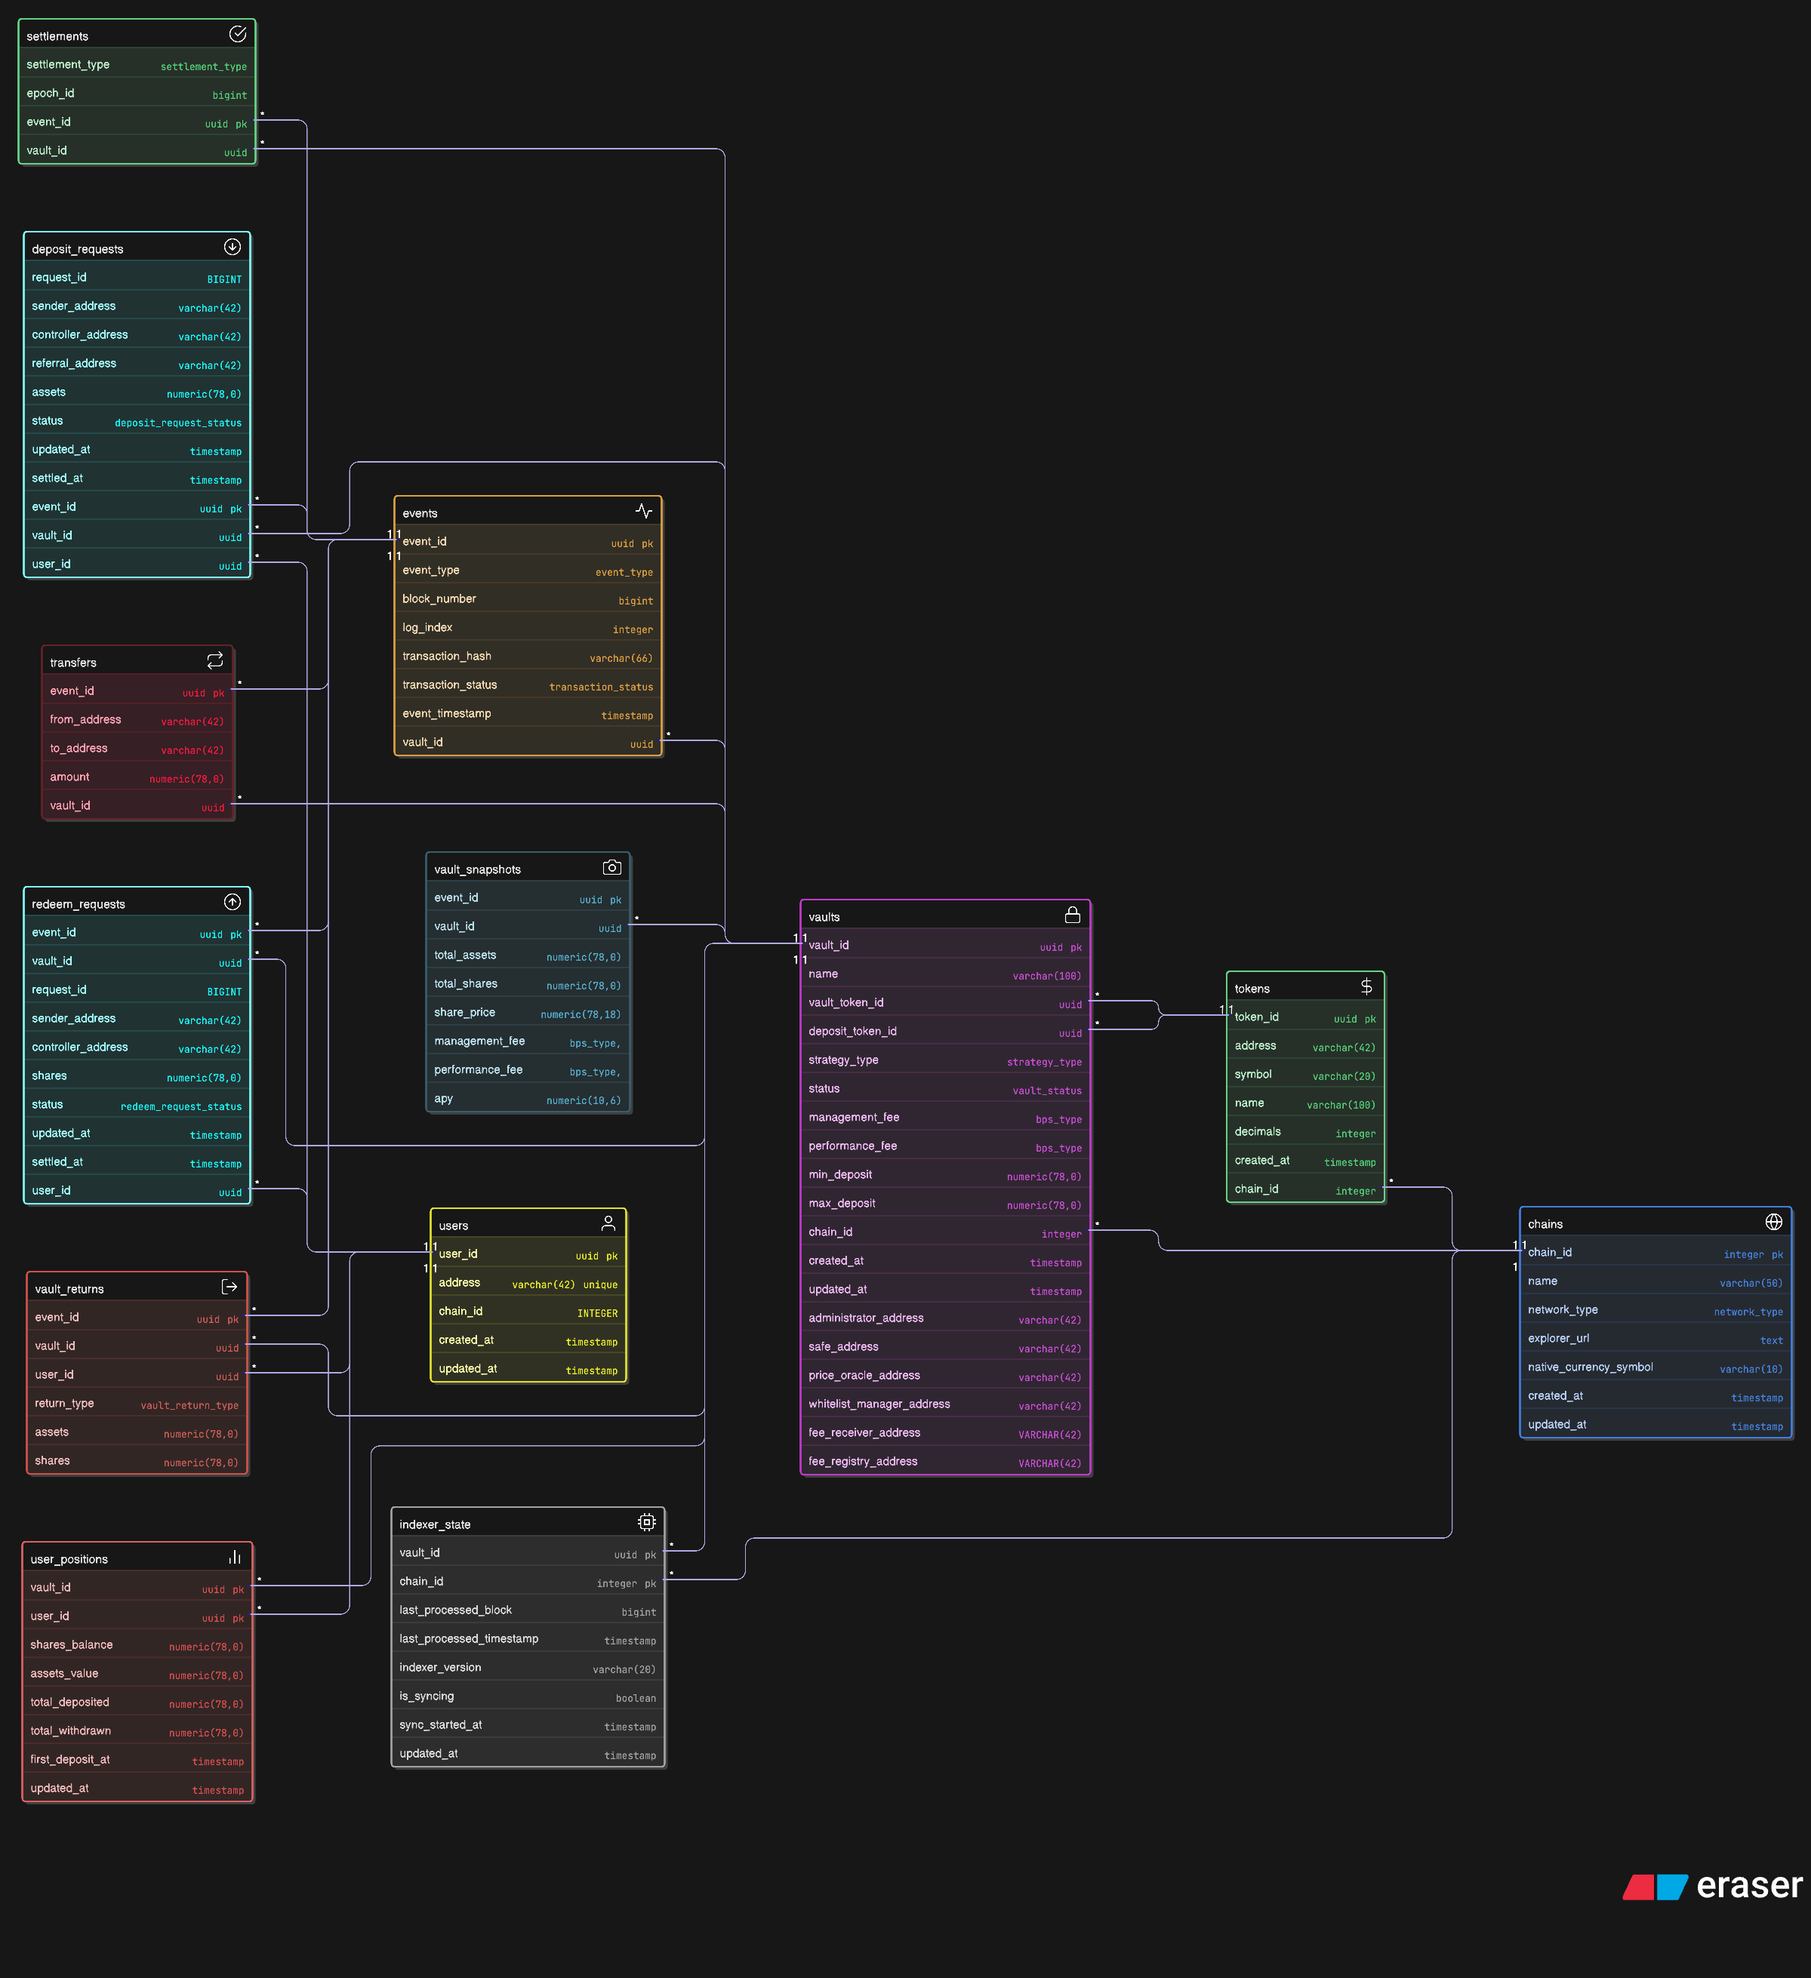
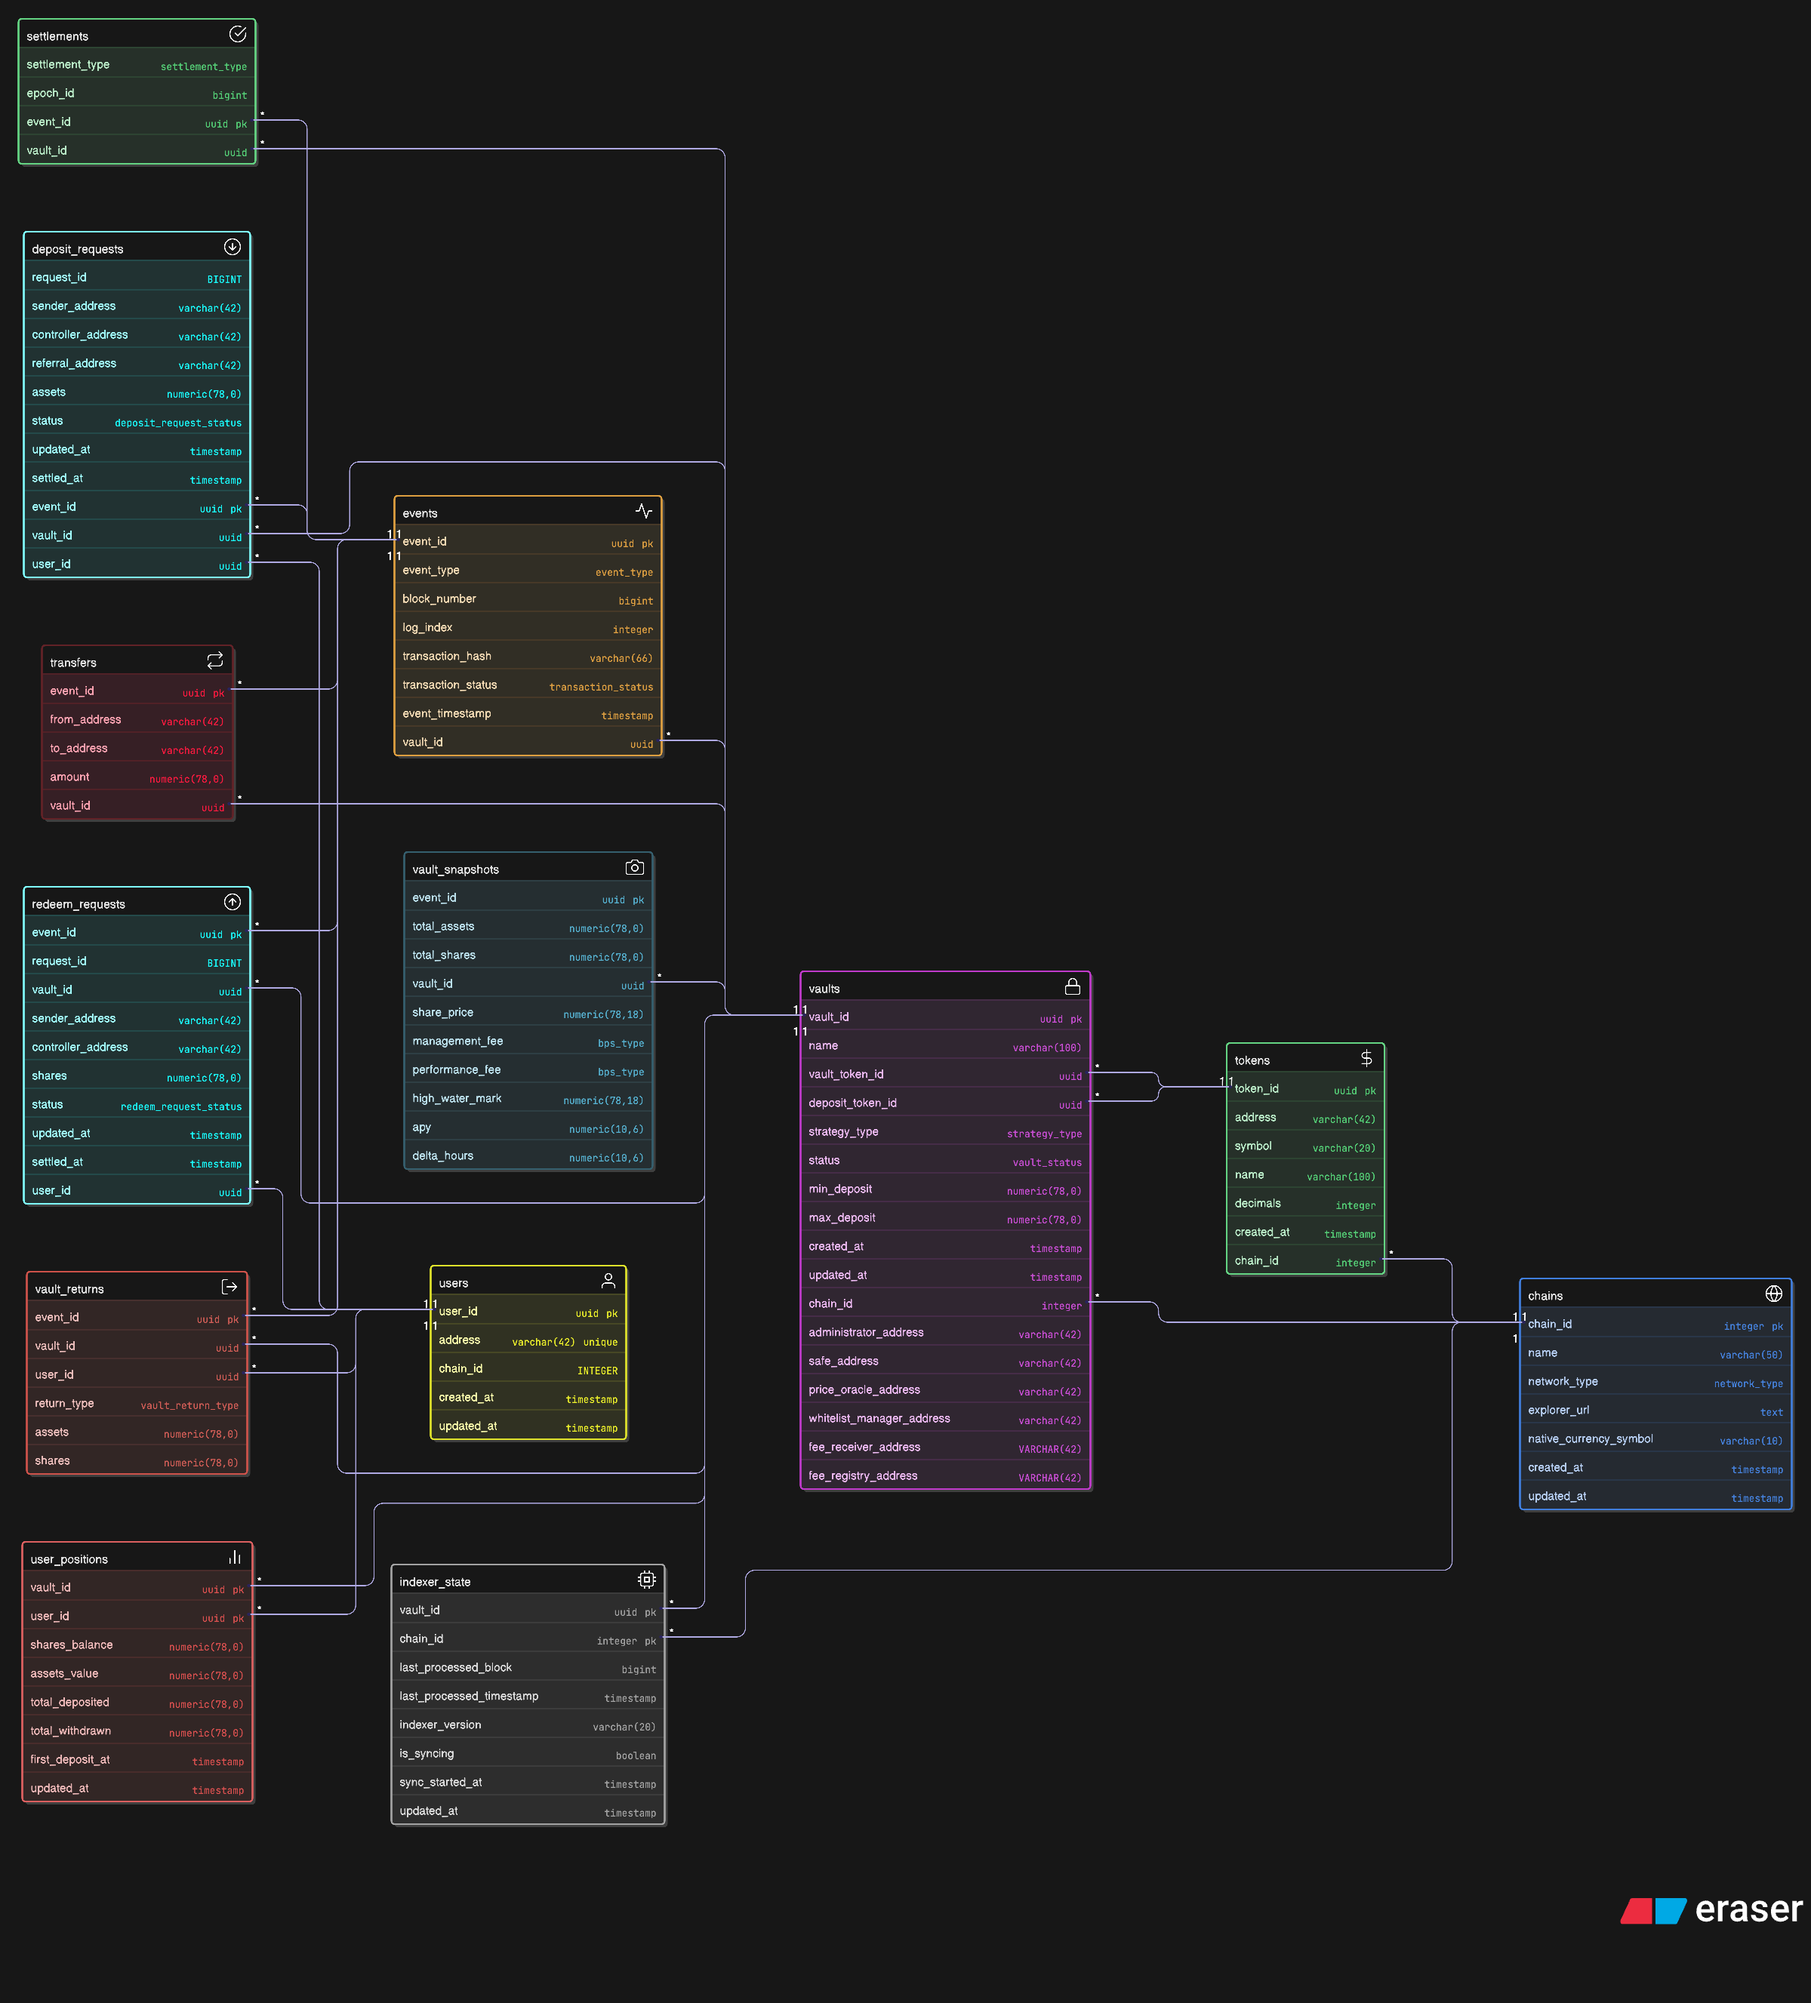
feat: extend vault snapshot schema and APY computation logic
- Updated DB schema
  - Added high_water_mark, apy, and delta_hours to vault_snapshots
  - Removed management_fee and performance_fee from vaults table

- Adjusted share price and APY computation
  - total_shares = lagoon_contract.functions.totalSupply().call()
  - share_price = total_assets / total_shares if total_shares > 0 else 0
  - delta_hours, apy = get_delta_hours_and_apy_12h_ago(...)

- Added missing events (handlers pending)
  - Referral: to update referral_address in deposit_requests
  - RatesUpdated: to update management_fee and performance_fee in vault_snapshots
  - HighWaterMarkUpdated: to update high_water_mark in vault_snapshots

diff --git a/lagoon-indexer/lagoon_indexer.py b/lagoon-indexer/lagoon_indexer.py
@@ -6,6 +6,7 @@ import traceback
 import pandas as pd
 from typing import List, Dict, Tuple
 from datetime import datetime
+from web3.contract import Contract
 import uuid
 sys.path.append(os.path.dirname(os.path.dirname(os.path.abspath(__file__))))
 from db.db import Database, getEnvDb
@@ -15,6 +16,8 @@ from db.query.lagoon_db_utils import LagoonDbUtils
 from db.query.lagoon_events import LagoonEvents
 from db.utils.lagoon_db_date_utils import LagoonDbDateUtils
 from eth_utils import event_abi_to_log_topic
+from utils.rpc import get_w3
+from constants.abi.lagoon import LAGOON_ABI
 
 # Event Formatter
 class EventFormatter:
@@ -99,17 +102,24 @@ class EventFormatter:
         return event_data, transfer_data
     
     @staticmethod
-    def format_NewTotalAssetsUpdated_data(event: Dict, vault_id: str) -> Tuple[Dict, Dict]:
+    def format_NewTotalAssetsUpdated_data(db: Database, lagoon_contract: Contract, event: Dict, vault_id: str) -> Tuple[Dict, Dict]:
         event_data = EventFormatter._common_fields(event, vault_id, 'total_assets_updated')
+        total_shares = lagoon_contract.functions.totalSupply().call()
+        total_assets = int(event['args']['totalAssets'])
+        share_price = total_assets / total_shares if total_shares > 0 else 0
+        delta_hours, apy = LagoonDbUtils.get_delta_hours_and_apy_12h_ago(db, vault_id, share_price)
+        
         new_total_assets_updated_data = {
             'event_id': event_data['event_id'],
             'vault_id': event_data['vault_id'],
-            'total_assets': int(event['args']['totalAssets']),
-            'total_shares': None, #int(event['args']['totalShares']),
-            'share_price': None, #int(event['args']['sharePrice']),
+            'total_assets': total_assets,
+            'total_shares': total_shares,
+            'share_price': share_price,
             'management_fee': None, #int(event['args']['managementFee']),
             'performance_fee': None, #int(event['args']['performanceFee']),
-            'apy': None #int(event['args']['apy'])
+            'high_water_mark': None, #int(event['args']['highWaterMark']),
+            'apy': apy,
+            'delta_hours': delta_hours
         }
         return event_data, new_total_assets_updated_data
 
@@ -128,18 +138,22 @@ class EventFormatter:
     
 # Event Processor
 class EventProcessor:
-    def __init__(self, db: Database, vault_id: str, chain_id: int):
+    def __init__(self, db: Database, lagoon: str, vault_id: str, chain_id: int):
         self.db = db
+        self.lagoon = lagoon
         self.vault_id = vault_id
         self.chain_id = chain_id
         self.EVENT_TABLES = {
             'DepositRequest': 'deposit_requests',
+            'Referral': 'deposit_requests',
             'RedeemRequest': 'redeem_requests',
             'SettleDeposit': 'settlements',
             'SettleRedeem': 'settlements',
             'DepositRequestCanceled': 'deposit_request_canceled',
             'Transfer': 'transfers',
             'NewTotalAssetsUpdated': 'vault_snapshots',
+            'RatesUpdated': 'vault_snapshots',
+            'HighWaterMarkUpdated': 'vault_snapshots',
             'Deposit': 'vault_returns',
             'Withdraw': 'vault_returns'
         }
@@ -242,8 +256,10 @@ class EventProcessor:
     def store_NewTotalAssetsUpdated_events(self, events: List[Dict]):
         event_data_list = []
         new_total_assets_updated_data_list = []
+        w3 = get_w3(self.chain_id)
+        lagoon_contract = w3.eth.contract(address=self.lagoon, abi=LAGOON_ABI)
         for event in events:
-            event_data, new_total_assets_updated_data = EventFormatter.format_NewTotalAssetsUpdated_data(event, self.vault_id)
+            event_data, new_total_assets_updated_data = EventFormatter.format_NewTotalAssetsUpdated_data(self.db, lagoon_contract, event, self.vault_id)
             event_data_list.append(event_data)
             new_total_assets_updated_data_list.append(new_total_assets_updated_data)
 
@@ -307,7 +323,7 @@ class LagoonIndexer:
             abi=lagoon_abi
         )
         self.db = getEnvDb('damm-public')
-        self.event_processor = EventProcessor(self.db, self.vault_id, self.chain_id)
+        self.event_processor = EventProcessor(self.db, self.lagoon, self.vault_id, self.chain_id)
 
     def get_block_ts(self, event: Dict) -> str:
         block_number = int(event['blockNumber'])
@@ -354,6 +370,12 @@ class LagoonIndexer:
                     new_events.append(event_copy)
                 events = new_events  # Replace the list with the new one
 
+                # TODO: Missing events: 
+                # Referral for updating deposit_requests referral field correspondingly
+                # For updating vault_snapshots, in addition to NewTotalAssetsUpdated, we need to track:
+                ## RatesUpdated for updating management_fee and performance_fee in vault_snapshots
+                ## HighWaterMarkUpdated for updating high_water_mark in vault_snapshots
+                
                 if event_name == 'DepositRequest':
                     self.event_processor.store_DepositRequest_events(events)
                 elif event_name == 'RedeemRequest':

diff --git a/lagoon-indexer/db/query/lagoon_db_utils.py b/lagoon-indexer/db/query/lagoon_db_utils.py
@@ -1,6 +1,8 @@
 from db.db import Database
 import uuid
 from db.utils.lagoon_db_date_utils import LagoonDbDateUtils
+from datetime import timedelta
+from typing import Tuple, Optional
 
 class LagoonDbUtils:
     @staticmethod
@@ -62,3 +64,28 @@ class LagoonDbUtils:
         """
         formatted_ts = LagoonDbDateUtils.get_datetime_formatted_now()
         db.execute(query, (last_block, formatted_ts, formatted_ts, vault_id, chain_id))
+
+    @staticmethod
+    def get_delta_hours_and_apy_12h_ago(db: Database, vault_id: str, current_share_price: float) -> Tuple[Optional[float], Optional[float]]:
+        """
+        Retrieve the share price 12 hours ago for a given vault_id.
+        """
+        query = """
+        SELECT events.event_timestamp, share_price FROM vault_snapshots 
+        JOIN events ON vault_snapshots.event_id = events.event_id 
+        WHERE vault_snapshots.vault_id = %s AND events.event_timestamp <= %s
+        ORDER BY events.event_timestamp DESC
+        LIMIT 1;
+        """
+        formatted_now_ts = LagoonDbDateUtils.get_datetime_formatted_now()
+        formatted_past_ts = LagoonDbDateUtils.format_timestamp(formatted_now_ts - timedelta(hours=12))
+        result = db.queryResponse(query, (vault_id, formatted_past_ts))
+        if result and 'share_price' in result[0] and 'event_timestamp' in result[0]:
+            share_price_12h_ago = float(result[0]['share_price'])
+            snapshot_ts = LagoonDbDateUtils.get_datetime_from_str(result[0]['event_timestamp'])
+            delta_hours = (formatted_now_ts - snapshot_ts).total_seconds() / 3600
+            if share_price_12h_ago > 0 and delta_hours > 0:
+                apy = ((current_share_price / share_price_12h_ago) ** (8760 / delta_hours) - 1) * 100
+                return delta_hours, apy
+        
+        return None, None

diff --git a/lagoon-indexer/db/register_indexer.py b/lagoon-indexer/db/register_indexer.py
@@ -106,8 +106,6 @@ def insert_vault(db, chain_id):
     
     strategy_type = 'yield_farming'
     status = 'active'
-    management_fee = 0 #TODO
-    performance_fee = 0 #TODO
     min_deposit = 0 #TODO
     max_deposit = None #TODO
     
@@ -123,11 +121,11 @@ def insert_vault(db, chain_id):
     query = """
     INSERT INTO vaults (
         vault_id, chain_id, name, vault_token_id, deposit_token_id,
-        strategy_type, status, management_fee, performance_fee, min_deposit,
+        strategy_type, status, min_deposit,
         max_deposit, administrator_address, safe_address, price_oracle_address,
         whitelist_manager_address, fee_receiver_address, fee_registry_address, created_at
     ) VALUES (
-        %s, %s, %s, %s, %s, %s, %s, %s, %s, %s, %s, %s, %s, %s, %s, %s, %s, %s
+        %s, %s, %s, %s, %s, %s, %s, %s, %s, %s, %s, %s, %s, %s, %s, %s
     )
     ON CONFLICT (chain_id, vault_token_id) DO NOTHING
     RETURNING vault_id;
@@ -143,8 +141,6 @@ def insert_vault(db, chain_id):
                 deposit_token_id,
                 strategy_type,
                 status,
-                management_fee,
-                performance_fee,
                 min_deposit,
                 max_deposit,
                 administrator_address,

diff --git a/lagoon-indexer/indexer.py b/lagoon-indexer/indexer.py
@@ -27,8 +27,20 @@ def main():
 
     real_time = bool(args.real_time)
 
-    # TODO: Check if Referral events are needed
-    events_to_track = ["DepositRequest", "RedeemRequest", "SettleDeposit", "SettleRedeem", "Deposit", "Withdraw", "DepositRequestCanceled", "Transfer", "NewTotalAssetsUpdated"]
+    events_to_track = [
+        "DepositRequest", 
+        "RedeemRequest", 
+        "SettleDeposit", 
+        "SettleRedeem", 
+        "Deposit", 
+        "Withdraw", 
+        "DepositRequestCanceled", 
+        "Transfer", 
+        "NewTotalAssetsUpdated",
+        "RatesUpdated",
+        "HighWaterMarkUpdated",
+        "Referral"
+    ]
 
     indexer = LagoonIndexer(
         lagoon_abi=LAGOON_ABI,
